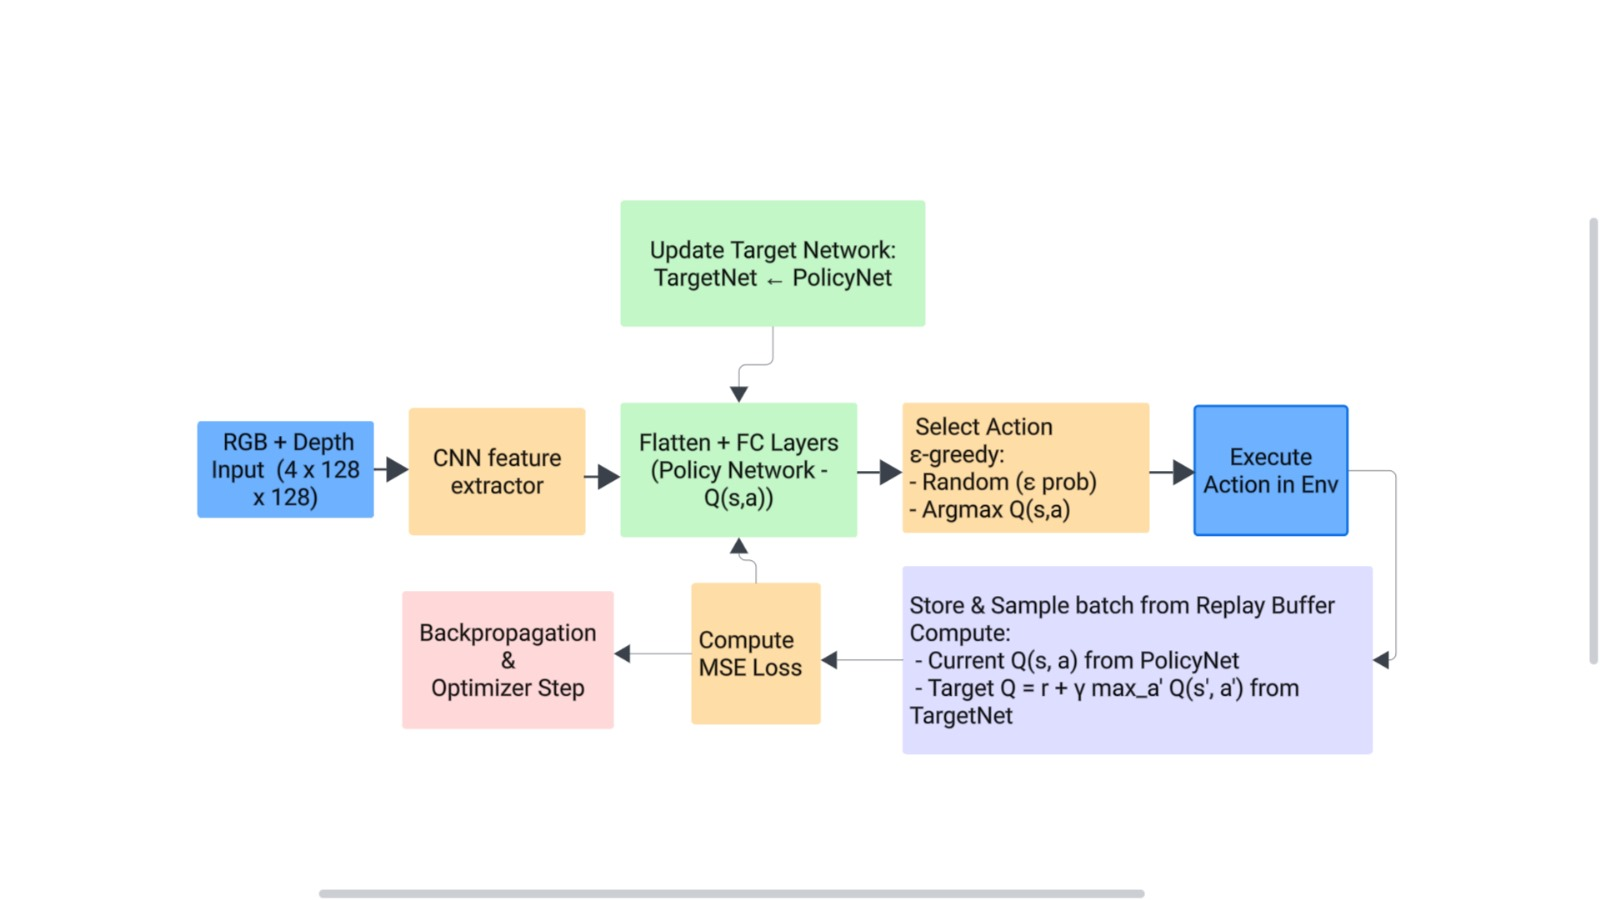
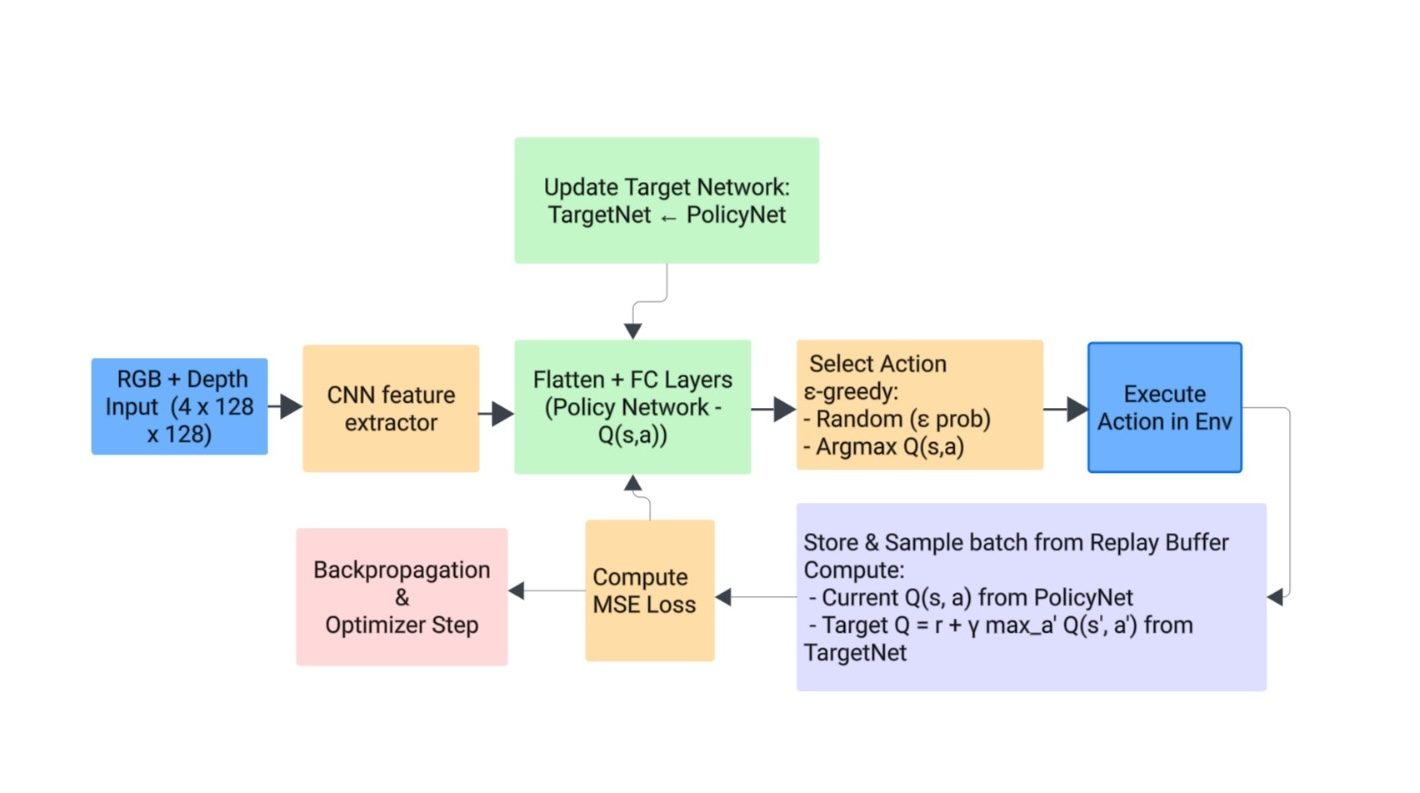
Cropped image

diff --git a/index.md b/index.md
@@ -231,7 +231,7 @@ A model-free value-based reinforcement learning agent that learns a Q-function m
 - Not ideal for high-dimenstional Delayed rewards could hurt Q-value propagation
 - Relies on experience replay which can break temporal correlations important in navigation
 
-<img src="https://github.com/surya1701/RL-PointNav-project/raw/refs/heads/main/assets/dqn_arch.png"/> 
+<img src="https://github.com/surya1701/RL-PointNav-project/raw/refs/heads/main/assets/dqn_arch.jpeg"/> 
 
 ---
 
